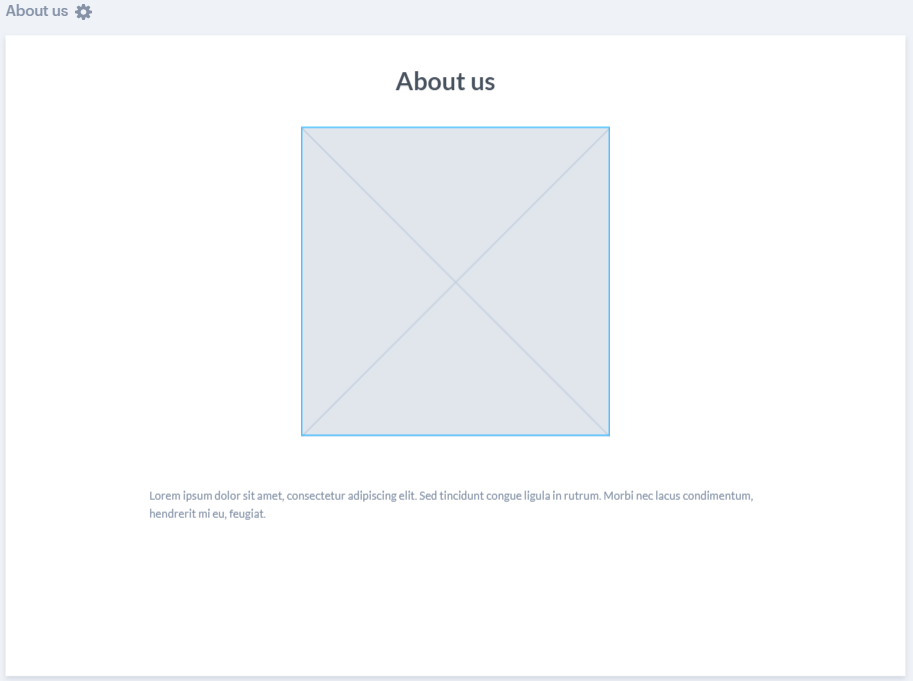
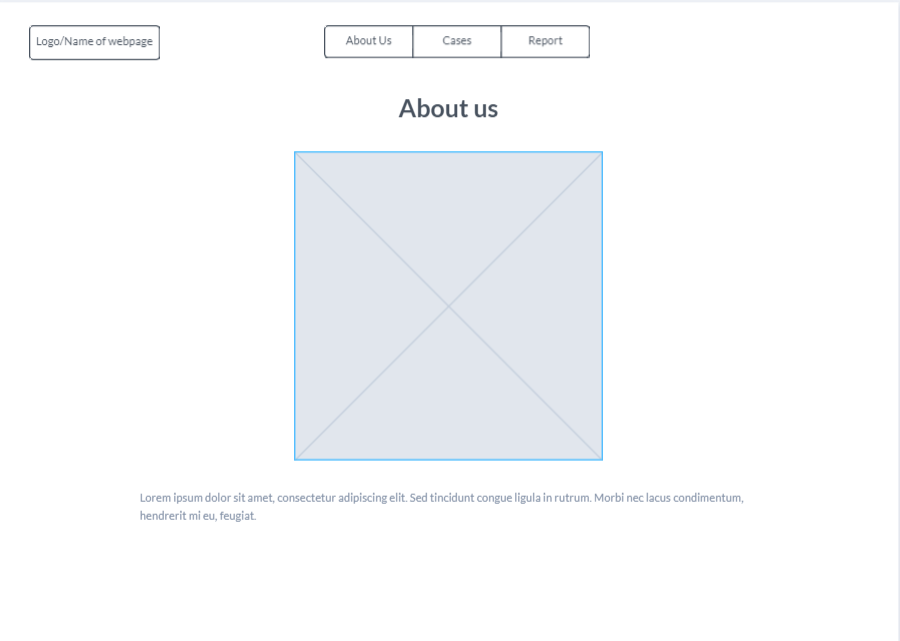
added to skeleton

Changed region(s): [[0.1556, 0.0312, 0.84, 0.8112], [0.0, 0.9672, 0.9956, 0.9984], [0.0, 0.0, 0.1867, 0.0936]]

diff --git a/readme.md b/readme.md
@@ -1,25 +1,34 @@
-Strategy
-Site owner's goals: To shed light on current and cold cases of missing people in Singapore and to provide a channel for tip-offs on these cases. 
-User: 1.General public
-      2.Friends/family members of missing people  
-User's goals: For general public to provide useful information that may help in the search of missing people.
-              For friends/family members of missing people to reach a wider audience(other parts of the world) in looking for missing person.
+**Strategy**
+## Site owner's goals: 
+To shed light on current and cold cases of missing people in Singapore and to provide a channel for tip-offs on these cases. 
+## Users: 
+1.General public
+2.Friends/family members of missing people  
+## User's goals: 
+For general public to provide useful information that may help in the search of missing people.
+For friends/family members of missing people to reach a wider audience(other parts of the world) in looking for missing person.
 
-Scope
-Functional:
+# Scope
+## Functional:
 1. Users can click on markers on a map to see the last seen locations and description of missing people.
 2. Users can tip off, report cases with the option to insert images.
 3. Users can search for news reports from local news outets.
-Non-functional:
+## Non-functional:
 1. Mobile responsiveness
 2. Reporting form is provided in thai, malay, mandarin.
 
-Structure
+# Structure
 
 About us(main page)     /Cases                  /Report
 =>News API              =>Map markers           =>Form
 =>Map                   =>Missing person info
 
-Skeleton
-Main page: ![image](skeleton/main-page.png)
-About us page: ![image](skeleton/about-us.png)
+# Skeleton
+## Main page: 
+![image](skeleton/main.png)
+## About us page: 
+![image](skeleton/about-us.png)
+## Report page:
+![image](skeleton/report.png)
+## Cases page:
+![image](skeleton/cases.png)
